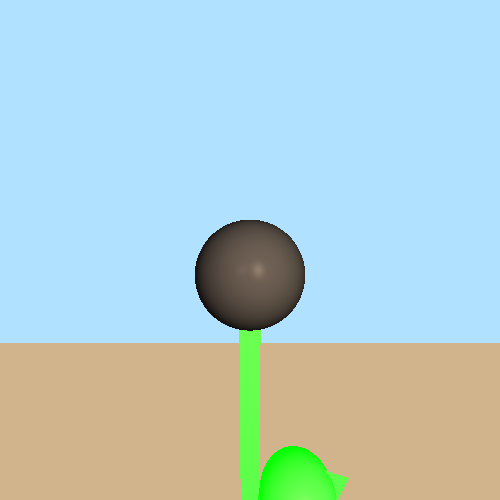
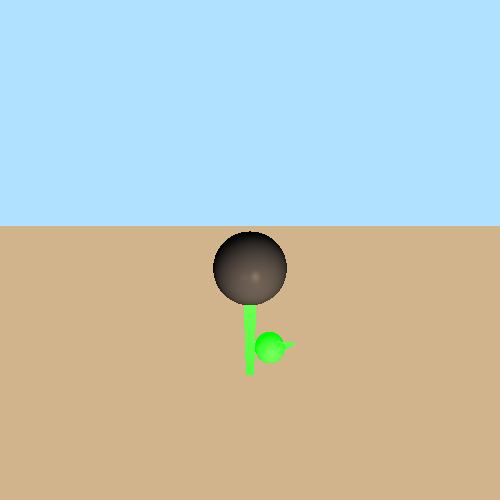
Fixing92

Changed region(s): [[0.0, 0.42, 1.0, 1.0]]

diff --git a/unittests/renderer/Mp2Tests.java b/unittests/renderer/Mp2Tests.java
@@ -65,10 +65,10 @@ class Mp2Tests {
                     .setMaterial(new Material().setKd(0.8).setKs(0.2).setShininess(20)),
 
             //The leave
-            new Triangle( new Point(4.5, -13, -21), new Point(2.5, -10, -21), new Point(5.2, -11, -21))
+            new Triangle( new Point(3.5, -13, -21), new Point(2, -10.5, -21), new Point(4.7, -11, -21))
                     .setEmission(new Color(java.awt.Color.GREEN))
                     .setMaterial(new Material().setKd(0.8).setKs(0.2).setShininess(20)),
-            new Sphere( 2,new Point(2.5, -12, -21))
+            new Sphere( 1.5,new Point(2, -12, -21))
                     .setEmission(new Color(java.awt.Color.GREEN))
                     .setMaterial(new Material().setKd(0.8).setKs(0.2).setShininess(20)),
 
@@ -76,7 +76,7 @@ class Mp2Tests {
             //The center of the flower
             //Center
             new Sphere( 2.5,new Point(0, 0, -21.25))
-                    .setEmission(new Color(java.awt.Color.BLACK))
+                   .setEmission(new Color(java.awt.Color.BLACK))
                     .setMaterial(new Material().setKd(0.7).setKs(0.3).setShininess(50))
 
             );
@@ -119,8 +119,8 @@ class Mp2Tests {
     void test2(){
         // Create a camera with a specific location and direction
         Camera cam1 = Camera.getBuilder()
-                .setLocation(new Point(0, 3, -10))
-                .setDirection(new Vector(0, -0.5, -3), new Vector(0, 3, -0.5))
+                .setLocation(new Point(0, 13, -10))
+                .setDirection(new Vector(0, -1, -1), new Vector(0, 1, -1))
                 .setVpSize(20, 20)
                 .setVpDistance(10)
                 .setResolution(500,500)
